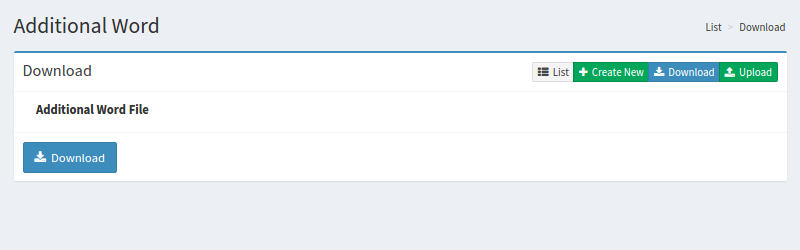
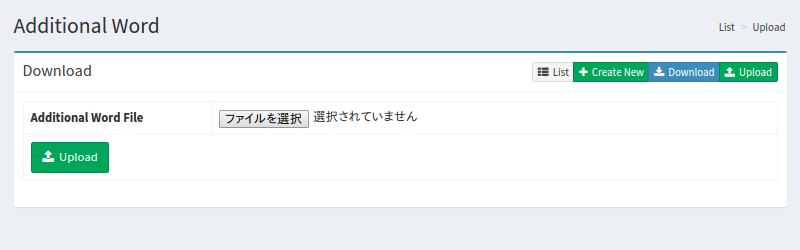
correct images

diff --git a/en/10.0/admin/elevateword-guide.rst b/en/10.0/admin/elevateword-guide.rst
@@ -7,8 +7,6 @@ Overview
 
 TBD
 
-|image0|
-
 Management Operations
 =====================
 
@@ -17,7 +15,7 @@ Display Configurations
 
 Select Crawler > Additional Word in the left menu to display a list page of Additional Word Configuration, as below.
 
-|image1|
+|image0|
 
 Click a configuration name if you want to edit it.
 
@@ -26,7 +24,7 @@ Create Configuration
 
 Click Create New button to display a form page for Additional Word configuration.
 
-|image2|
+|image1|
 
 Configurations
 --------------
@@ -67,7 +65,7 @@ Download
 
 TBD
 
-|image3|
+|image2|
 
 Contents of CSV
 ---------------
@@ -79,7 +77,7 @@ Upload
 
 TBD
 
-|image4|
+|image3|
 
 Contents of CSV
 ---------------
@@ -91,4 +89,3 @@ TBD
 .. |image1| image:: ../../../resources/images/en/10.0/admin/elevateword-2.png
 .. |image2| image:: ../../../resources/images/en/10.0/admin/elevateword-3.png
 .. |image3| image:: ../../../resources/images/en/10.0/admin/elevateword-4.png
-.. |image4| image:: ../../../resources/images/en/10.0/admin/elevateword-5.png
